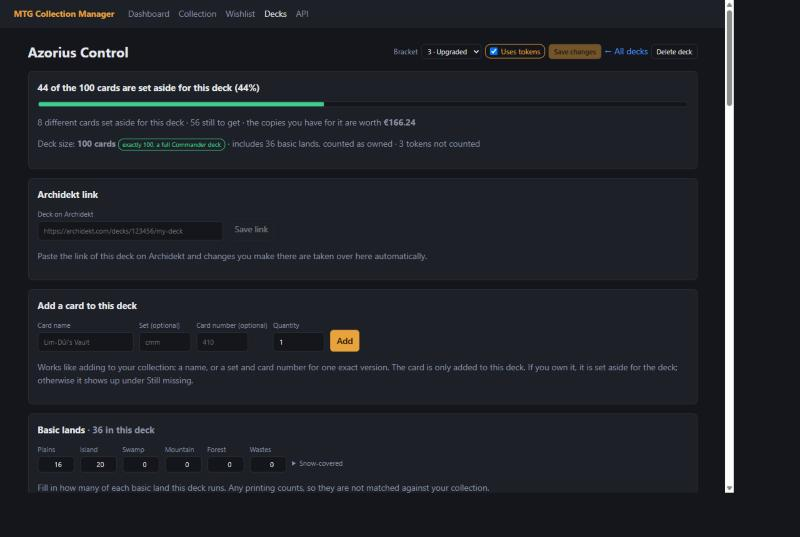
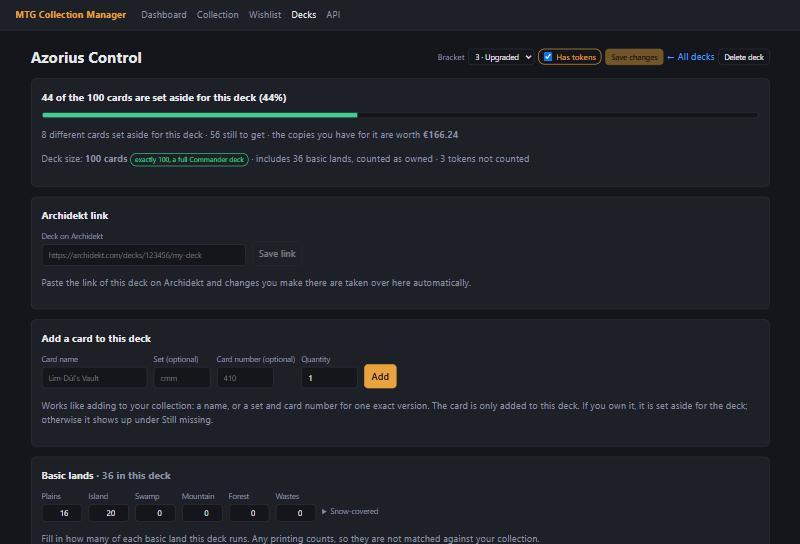
Decks: call the tokens box "Has tokens"

diff --git a/app/templates/deck.html b/app/templates/deck.html
@@ -60,8 +60,8 @@
       </select>
     </label>
     <input type="hidden" name="tokens_shown" value="1" form="deck-form">
-    <label class="token-toggle {{ 'on' if uses_tokens }}" title="Tick when this deck makes tokens, so you know to bring them">
-      <input type="checkbox" name="uses_tokens" form="deck-form" {{ 'checked' if uses_tokens }}>Uses tokens</label>
+    <label class="token-toggle {{ 'on' if uses_tokens }}" title="Tick when this deck has tokens, so you know to bring them">
+      <input type="checkbox" name="uses_tokens" form="deck-form" {{ 'checked' if uses_tokens }}>Has tokens</label>
     <button form="deck-form" class="deck-save small">Save changes</button>
     <a href="/deck">← All decks</a>
     <form class="inline" method="post" action="/decks/{{ deck.id }}/delete" data-confirm="Click again to delete">
@@ -117,7 +117,7 @@
       <td><a href="/decks/{{ s.deck.id }}">{{ s.deck.name }}</a>
         {{ pips(s.deck.colors) }}
         <div class="muted small deck-hit" hidden></div>{% if s.deck.archidekt_id %} <span class="badge linked" title="Follows its deck on Archidekt">↻ Archidekt</span>{% endif %}
-        {% if s.uses_tokens %}<span class="badge tokens" title="This deck uses tokens{% if s.tokens %}: {{ s.tokens }} in its deck list{% endif %}">● tokens</span>{% endif %}</td>
+        {% if s.uses_tokens %}<span class="badge tokens" title="This deck has tokens{% if s.tokens %}: {{ s.tokens }} in its deck list{% endif %}">● tokens</span>{% endif %}</td>
       <td>{% if s.bracket_name %}<span class="badge bracket">{{ s.deck.bracket }} · {{ s.bracket_name }}</span>{% else %}<span class="muted">–</span>{% endif %}</td>
       <td class="num" title="Cards you have / cards in the deck, basic lands included">{{ s.total_owned }} / {{ s.total_cards }}</td>
       <td style="width: 35%"><div class="progress slim"><div style="width: {{ s.percent }}%"></div></div></td>

diff --git a/tests/test_api.py b/tests/test_api.py
@@ -544,7 +544,7 @@ def test_mark_a_deck_as_using_tokens(client):
     client.put(f"/api/decks/{with_tokens['id']}/tokens", json={"uses_tokens": None})
     assert tokens()["Rabbits"] == (True, 3)
 
-    # The "Uses tokens" box on the deck page is saved with the other changes.
+    # The "Has tokens" box on the deck page is saved with the other changes.
     client.post(f"/decks/{plain['id']}/save", data={"tokens_shown": "1"})  # unticked
     assert tokens()["Plain"] == (False, 0)
     client.post(f"/decks/{plain['id']}/save", data={"tokens_shown": "1", "uses_tokens": "on"})

diff --git a/README.md b/README.md
@@ -57,7 +57,7 @@ price.
 
 ![The saved decks sorted on missing cards: the decks closest to done first](docs/decks-sorted.jpg)
 
-![A saved deck of exactly 100 cards: its bracket, "Uses tokens", deck size, the Archidekt link, adding a card, and basic lands per land](docs/deck.jpg)
+![A saved deck of exactly 100 cards: its bracket, "Has tokens", deck size, the Archidekt link, adding a card, and basic lands per land](docs/deck.jpg)
 
 ![A deck that follows its Archidekt link: Sync now, and when it was last checked](docs/deck-archidekt.jpg)
 
@@ -123,7 +123,7 @@ price.
 - One "Save changes" button per deck: bracket, basic lands and chosen printings are edited freely and stored together, with a reminder while there are unsaved changes
 - Commander bracket per deck: taken from Archidekt when the deck has one, and changeable at any time
 - Filter the list of saved decks by bracket, or show only the decks that are complete
-- "Uses tokens" on a deck: a deck whose list has tokens is marked by itself, and you can tick or untick it on the deck page. The saved decks show a "tokens" badge and can be filtered on it, so you know which decks need tokens at the table
+- "Has tokens" on a deck: a deck whose list has tokens is marked by itself, and you can tick or untick it on the deck page. The saved decks show a "tokens" badge and can be filtered on it, so you know which decks need tokens at the table
 - Search the saved decks on deck name or on a card: "arcane signet" lists every deck that runs it, with the matching cards under the deck name
 - Filter the saved decks on colour: every deck shows the colour identity of its cards, and you pick decks with exactly, any of, or within the chosen colours
 - Sort the saved decks by how many cards they still miss, or by name, bracket, size, progress or value
@@ -215,7 +215,7 @@ product page. Two things to know:
 | `POST` | `/api/decks/{id}/cards/{entry_id}/new-copy` | Put a new copy from an import, that waits to be sorted, in this deck |
 | `POST` | `/api/collection/let-app-sort` | Let the app share out the new copies from imports over the decks (`?entry_id=` for one card) |
 | `PUT` | `/api/decks/{id}/basic-lands` | Set how many of each basic land a deck runs |
-| `PUT` | `/api/decks/{id}/tokens` | Mark a deck as one that uses tokens, or not (`null` follows the deck list) |
+| `PUT` | `/api/decks/{id}/tokens` | Mark a deck as one that has tokens, or not (`null` follows the deck list) |
 | `PUT` | `/api/decks/{id}/bracket` | Set or clear the Commander bracket of a deck |
 | `PUT` | `/api/decks/{id}/archidekt` | Let a deck follow an Archidekt deck, or stop following |
 | `POST` | `/api/decks/{id}/sync`, `/api/decks/sync` | Bring one deck, or every linked deck, up to date with Archidekt |
